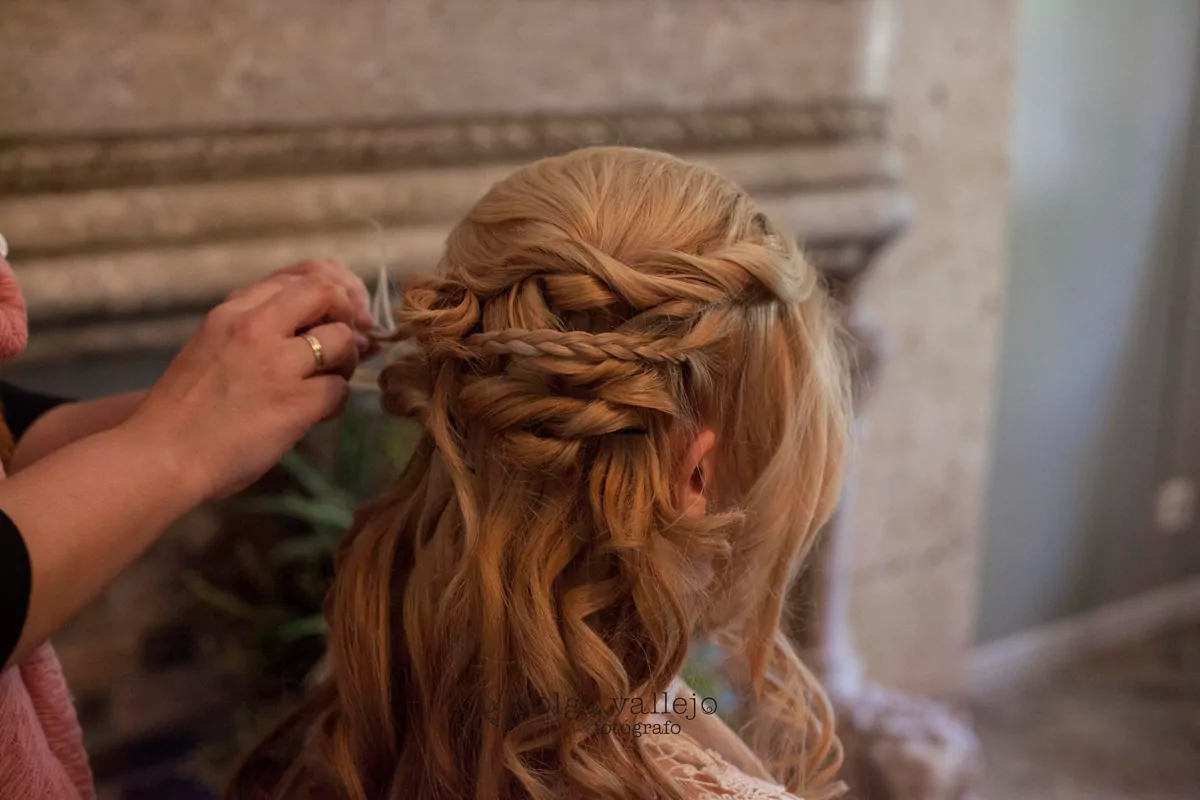
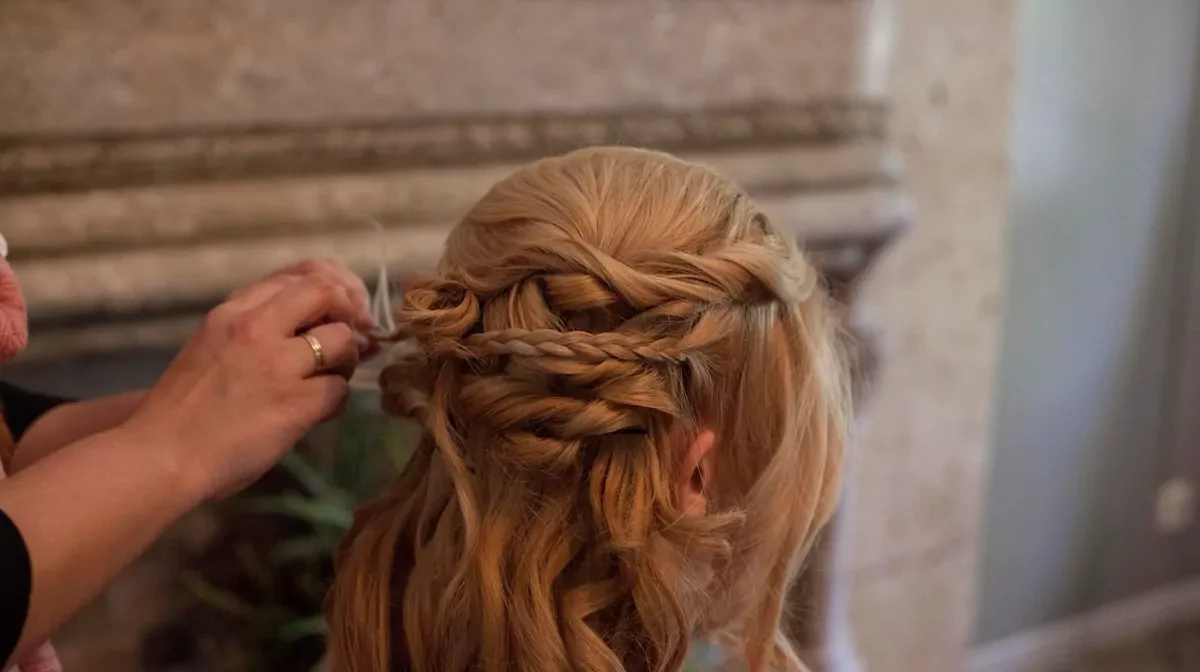
Web de PeluChic: pie centrado, galería sin firma, pin de la portada en línea y móvil apaisado
- Pie centrado en todos los tamaños (marca, redes, visítanos, horario,
  síguenos, legal); compartido con la reserva.
- Foto de galería «semirrecogido-trenzas-en-proceso» recortada sin la firma
  del fotógrafo (originales en …-original.webp); el resto revisadas, sin firma.
- El pin de la dirección de la portada va en línea con el texto.
- Pantallas bajas (≤ 500 px de alto, móvil apaisado): cabecera no fija y
  portada compacta.

Claude-Session: https://claude.ai/code/session_017kiWjYDbtUJGjQr2RTMDec

diff --git a/src/routes/s.$salonSlug.tsx b/src/routes/s.$salonSlug.tsx
@@ -315,7 +315,7 @@ function SalonLayout() {
     // «Reservar cita» no cubre el final de ninguna sección; el pie mantiene el
     // suyo para que también sus enlaces queden siempre por encima de la barra.
     <div className="web-salon flex min-h-screen flex-col bg-background text-foreground">
-      <header className="sticky top-0 z-40 border-b border-border/60 bg-background/85 backdrop-blur">
+      <header className="sticky top-0 z-40 [@media(max-height:500px)]:relative border-b border-border/60 bg-background/85 backdrop-blur">
         <div
           className={cn(
             CONTENEDOR_SALON,
@@ -509,143 +509,140 @@ function SalonLayout() {
           onBooking ? "pb-[var(--alto-barra-fija)] lg:pb-0" : "pb-[var(--alto-barra-fija)] md:pb-0",
         )}
       >
-        {/* Lote 18.4: cuatro columnas desde 1024 px (salón · visítanos · horario ·
-            síguenos); «Síguenos» solo si hay algo que enlazar. */}
-        <div
-          className={cn(
-            CONTENEDOR_SALON,
-            "grid gap-8 py-12 sm:grid-cols-2 md:gap-10 md:py-14 lg:grid-cols-[1.4fr_1fr_1fr_1fr]",
-          )}
-        >
-          <div>
-            <div className="flex items-center gap-2">
-              {logotipoPie ? (
-                <img
-                  src={logotipoPie}
-                  alt={profile.name}
-                  width={600}
-                  height={178}
-                  loading="lazy"
-                  decoding="async"
-                  className="ws-logotipo ws-logotipo-pie h-12 w-auto"
-                />
-              ) : (
-                <>
-                  {logoSalon ? (
-                    <span className="block size-9 shrink-0 overflow-hidden rounded-full border border-lino bg-white">
-                      <img
-                        src={logoSalon}
-                        alt={`Logo de ${profile.name}`}
-                        width={36}
-                        height={36}
-                        loading="lazy"
-                        decoding="async"
-                        className="h-full w-full object-cover"
-                      />
-                    </span>
-                  ) : (
-                    <Logo label={profile.name} />
-                  )}
-                  <span className="font-display text-lg">{profile.name}</span>
-                </>
+        {/* 22-oct: pie centrado en todos los tamaños (Tomás): marca y redes
+            arriba, y debajo una fila de grupos centrados (visítanos · horario ·
+            síguenos) que en móvil se apila. Nada pegado a una esquina. */}
+        <div className={cn(CONTENEDOR_SALON, "flex flex-col items-center py-10 text-center md:py-12")}>
+          <div className="flex items-center justify-center gap-2">
+            {logotipoPie ? (
+              <img
+                src={logotipoPie}
+                alt={profile.name}
+                width={600}
+                height={178}
+                loading="lazy"
+                decoding="async"
+                className="ws-logotipo ws-logotipo-pie h-12 w-auto"
+              />
+            ) : (
+              <>
+                {logoSalon ? (
+                  <span className="block size-9 shrink-0 overflow-hidden rounded-full border border-lino bg-white">
+                    <img
+                      src={logoSalon}
+                      alt={`Logo de ${profile.name}`}
+                      width={36}
+                      height={36}
+                      loading="lazy"
+                      decoding="async"
+                      className="h-full w-full object-cover"
+                    />
+                  </span>
+                ) : (
+                  <Logo label={profile.name} />
+                )}
+                <span className="font-display text-lg">{profile.name}</span>
+              </>
+            )}
+          </div>
+          {profile.about ? (
+            <p className="mt-4 hidden max-w-xl text-sm text-muted-foreground md:block">
+              {profile.about}
+            </p>
+          ) : null}
+          <RedesSalon
+            enlaces={enlaces}
+            nombre={profile.name}
+            tono="oscuro"
+            className="mt-3 justify-center"
+          />
+
+          <div className="mt-6 flex w-full flex-col items-center gap-6 md:mt-8 md:flex-row md:flex-wrap md:items-start md:justify-center md:gap-x-16 md:gap-y-8">
+            <div className="flex flex-col items-center">
+              <p className="hidden ws-etiqueta md:block">Visítanos</p>
+              <p className="mt-3 hidden max-w-xs text-sm md:block">
+                <MapPin className="mr-1.5 inline h-4 w-4 -translate-y-px text-primary" aria-hidden="true" />
+                {profile.address}
+              </p>
+              {profile.phone.trim() && (
+                <a
+                  href={`tel:${profile.phone.replace(/\s/g, "")}`}
+                  className="mt-1 inline-flex min-h-11 items-center justify-center gap-2 text-sm tabular-nums hover:text-primary"
+                >
+                  <Phone className="h-4 w-4 shrink-0 text-primary" aria-hidden="true" />
+                  {profile.phone}
+                </a>
+              )}
+              {whatsappUrl && (
+                <a
+                  href={whatsappUrl}
+                  {...FUERA}
+                  className="hidden min-h-11 items-center justify-center gap-2 text-sm hover:text-primary md:inline-flex"
+                >
+                  <IconoWhatsApp className="h-4 w-4 shrink-0 text-primary" />
+                  WhatsApp
+                </a>
               )}
             </div>
-            {profile.about ? (
-              <p className="mt-4 hidden max-w-sm text-sm text-muted-foreground md:block">
-                {profile.about}
-              </p>
-            ) : null}
-            <RedesSalon
-              enlaces={enlaces}
-              nombre={profile.name}
-              tono="oscuro"
-              className="-ml-3 mt-3"
-            />
-          </div>
-          <div>
-            <p className="hidden ws-etiqueta md:block">Visítanos</p>
-            <p className="mt-3 hidden items-start gap-2 text-sm md:flex">
-              <MapPin className="mt-0.5 h-4 w-4 shrink-0 text-primary" aria-hidden="true" />
-              {profile.address}
-            </p>
-            {profile.phone.trim() && (
-              <a
-                href={`tel:${profile.phone.replace(/\s/g, "")}`}
-                className="mt-1 flex min-h-11 items-center gap-2 text-sm tabular-nums hover:text-primary"
-              >
-                <Phone className="h-4 w-4 shrink-0 text-primary" aria-hidden="true" />
-                {profile.phone}
-              </a>
+            {!(
+              (conEnlaceDemo || protegerContenidoReal) &&
+              JSON.stringify(profile.openingHours) === JSON.stringify(DEFAULT_OPENING_HOURS)
+            ) && (
+              <div className="hidden w-56 md:block">
+                <p className="ws-etiqueta">Horario</p>
+                {weekSchedule(profile.openingHours).map((d) => (
+                  <p key={d.label} className="mt-2 flex justify-between gap-4 text-sm tabular-nums">
+                    <span className="text-muted-foreground">{d.label}</span>
+                    <span>{d.value}</span>
+                  </p>
+                ))}
+              </div>
             )}
-            {whatsappUrl && (
-              <a
-                href={whatsappUrl}
-                {...FUERA}
-                className="hidden min-h-11 items-center gap-2 text-sm hover:text-primary md:flex"
-              >
-                <IconoWhatsApp className="h-4 w-4 shrink-0 text-primary" />
-                WhatsApp
-              </a>
+            {(enlaces.blog || enlaces.instagram || enlaces.facebook || enlaces.tienda) && (
+              <div className="flex flex-col items-center">
+                <p className="ws-etiqueta">Síguenos</p>
+                <ul className="mt-1 flex flex-wrap justify-center gap-x-5 text-sm lg:mt-2 lg:flex-col lg:items-center lg:gap-x-0">
+                  {enlaces.blog && (
+                    <li>
+                      <EnlaceFuera href={enlaces.blog} className="min-h-11 hover:text-primary">
+                        Blog
+                      </EnlaceFuera>
+                    </li>
+                  )}
+                  {enlaces.instagram && (
+                    <li>
+                      <EnlaceFuera href={enlaces.instagram} className="min-h-11 hover:text-primary">
+                        Instagram
+                      </EnlaceFuera>
+                    </li>
+                  )}
+                  {enlaces.facebook && (
+                    <li>
+                      <EnlaceFuera href={enlaces.facebook} className="min-h-11 hover:text-primary">
+                        Facebook
+                      </EnlaceFuera>
+                    </li>
+                  )}
+                  {enlaces.tienda && (
+                    <li>
+                      <EnlaceFuera href={enlaces.tienda} className="min-h-11 hover:text-primary">
+                        Tienda online
+                      </EnlaceFuera>
+                    </li>
+                  )}
+                </ul>
+              </div>
             )}
           </div>
-          {!(
-            (conEnlaceDemo || protegerContenidoReal) &&
-            JSON.stringify(profile.openingHours) === JSON.stringify(DEFAULT_OPENING_HOURS)
-          ) && (
-            <div className="hidden md:block">
-              <p className="ws-etiqueta">Horario</p>
-              {weekSchedule(profile.openingHours).map((d) => (
-                <p key={d.label} className="mt-2 flex justify-between gap-4 text-sm tabular-nums">
-                  <span className="text-muted-foreground">{d.label}</span>
-                  <span>{d.value}</span>
-                </p>
-              ))}
-            </div>
-          )}
-          {(enlaces.blog || enlaces.instagram || enlaces.facebook || enlaces.tienda) && (
-            <div>
-              <p className="ws-etiqueta">Síguenos</p>
-              <ul className="mt-2 text-sm">
-                {enlaces.blog && (
-                  <li>
-                    <EnlaceFuera href={enlaces.blog} className="min-h-11 hover:text-primary">
-                      Blog
-                    </EnlaceFuera>
-                  </li>
-                )}
-                {enlaces.instagram && (
-                  <li>
-                    <EnlaceFuera href={enlaces.instagram} className="min-h-11 hover:text-primary">
-                      Instagram
-                    </EnlaceFuera>
-                  </li>
-                )}
-                {enlaces.facebook && (
-                  <li>
-                    <EnlaceFuera href={enlaces.facebook} className="min-h-11 hover:text-primary">
-                      Facebook
-                    </EnlaceFuera>
-                  </li>
-                )}
-                {enlaces.tienda && (
-                  <li>
-                    <EnlaceFuera href={enlaces.tienda} className="min-h-11 hover:text-primary">
-                      Tienda online
-                    </EnlaceFuera>
-                  </li>
-                )}
-              </ul>
-            </div>
-          )}
         </div>
         <div className="border-t border-lino">
           <div
             className={cn(
               CONTENEDOR_SALON,
-              "flex flex-col gap-1 py-4 text-[13px] text-cafe-suave sm:flex-row sm:items-center sm:justify-between",
+              "flex flex-col items-center justify-center py-3 text-center text-[13px] text-cafe-suave sm:flex-row sm:gap-x-3",
             )}
           >
-            <p>
+            <p className="inline-flex flex-wrap items-center justify-center gap-x-1">
               © {profile.name} ·{" "}
               <a
                 href="https://sishow.es"
@@ -656,6 +653,7 @@ function SalonLayout() {
                 Reservas con siShow
               </a>
             </p>
+            <span className="hidden text-cafe-suave sm:inline" aria-hidden="true">·</span>
             <Link
               to="/s/$salonSlug/privacidad"
               params={{ salonSlug }}

diff --git a/src/routes/s.$salonSlug.index.tsx b/src/routes/s.$salonSlug.index.tsx
@@ -546,7 +546,7 @@ function SalonHome() {
         <div
           className={cn(
             CONTENEDOR_SALON,
-            "flex min-h-[560px] flex-col items-center justify-center py-20 text-center md:min-h-[620px] md:py-24",
+            "flex min-h-[560px] flex-col items-center justify-center py-20 text-center md:min-h-[620px] md:py-24 [@media(max-height:500px)]:min-h-0 [@media(max-height:500px)]:py-10",
           )}
         >
           <div className="entrada-portada flex max-w-3xl flex-col items-center">
@@ -570,7 +570,7 @@ function SalonHome() {
                   alt={profile.name}
                   width={600}
                   height={178}
-                  className="ws-logotipo h-auto w-[min(88vw,420px)] drop-shadow-[0_2px_12px_rgba(0,0,0,0.35)] md:w-[480px]"
+                  className="ws-logotipo h-auto w-[min(88vw,420px)] drop-shadow-[0_2px_12px_rgba(0,0,0,0.35)] md:w-[480px] [@media(max-height:500px)]:w-[300px]"
                 />
               </h1>
             ) : (
@@ -611,9 +611,11 @@ function SalonHome() {
               <p className="mt-3 max-w-2xl text-[15px] text-white/90">{profile.about}</p>
             ) : null}
 
-            <p className="mt-4 flex items-start justify-center gap-2 text-[15px] text-white/90">
-              <MapPin className="mt-0.5 h-4 w-4 shrink-0" aria-hidden="true" />
-              <span>{profile.address}</span>
+            {/* El pin va en línea con el texto: con la dirección en dos líneas
+                se quedaba suelto a la izquierda del bloque (22-oct). */}
+            <p className="mt-4 max-w-2xl text-balance text-[15px] text-white/90">
+              <MapPin className="mr-1.5 inline h-4 w-4 -translate-y-px align-middle" aria-hidden="true" />
+              {profile.address}
             </p>
 
             <div className="mt-8 flex flex-wrap items-center justify-center gap-3">

diff --git a/src/components/HoyArena.tsx b/src/components/HoyArena.tsx
@@ -137,6 +137,9 @@ export function HoyArena() {
   // Lote P: si hoy el salón cierra y no hay nada en la agenda (el lunes de
   // PeluChic), las cifras y la línea del día miran al siguiente día abierto.
   const horario = useSalonStore((s) => s.salonProfile.openingHours);
+  // En las demos el miembro se llama como el negocio («The Heirs Peluqueros»):
+  // saludar con su primera palabra («Buenos días, The») queda mal; sin nombre propio, saludo neutro.
+  const nombreSalon = useSalonStore((s) => s.salonProfile.name);
   const proximoAbierto = useMemo(
     () =>
       hoy.length === 0 && cierraEseDia(horario, ahora)
@@ -242,7 +245,7 @@ export function HoyArena() {
             )}
           </p>
           <h1 className="mt-1 font-display text-[28px] leading-[1.1] font-medium tracking-[-0.02em] md:text-[34px]">
-            {miembro?.displayName
+            {miembro?.displayName && miembro.displayName.trim() !== nombreSalon?.trim()
               ? saludo(miembro.displayName, ahora.getHours())
               : saludoPara(ahora.getHours())}
           </h1>
